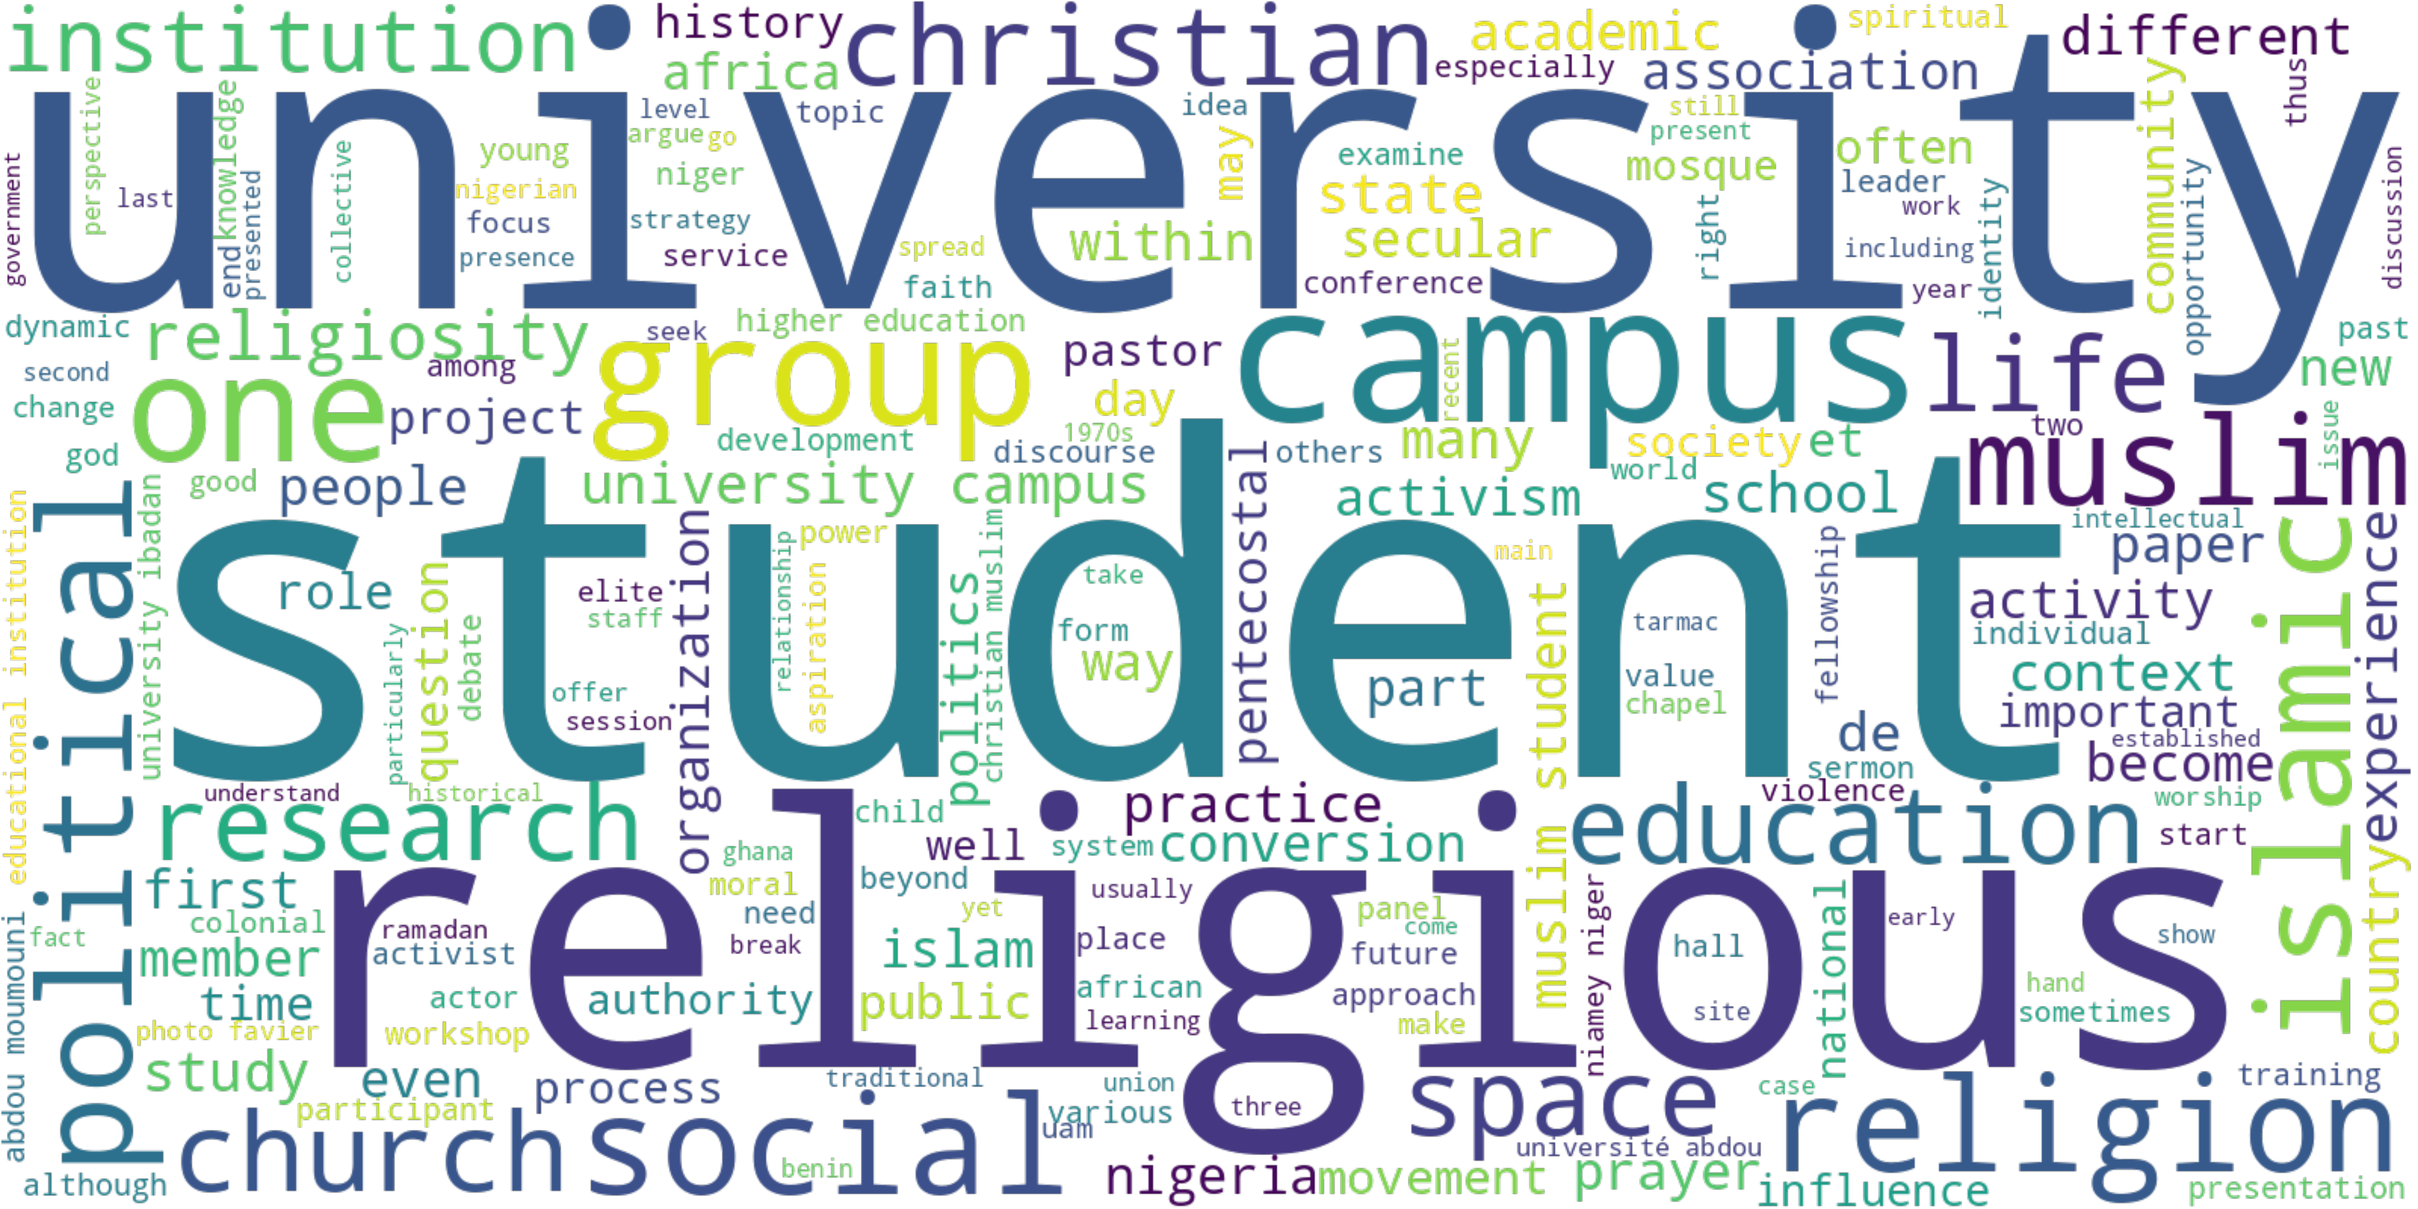
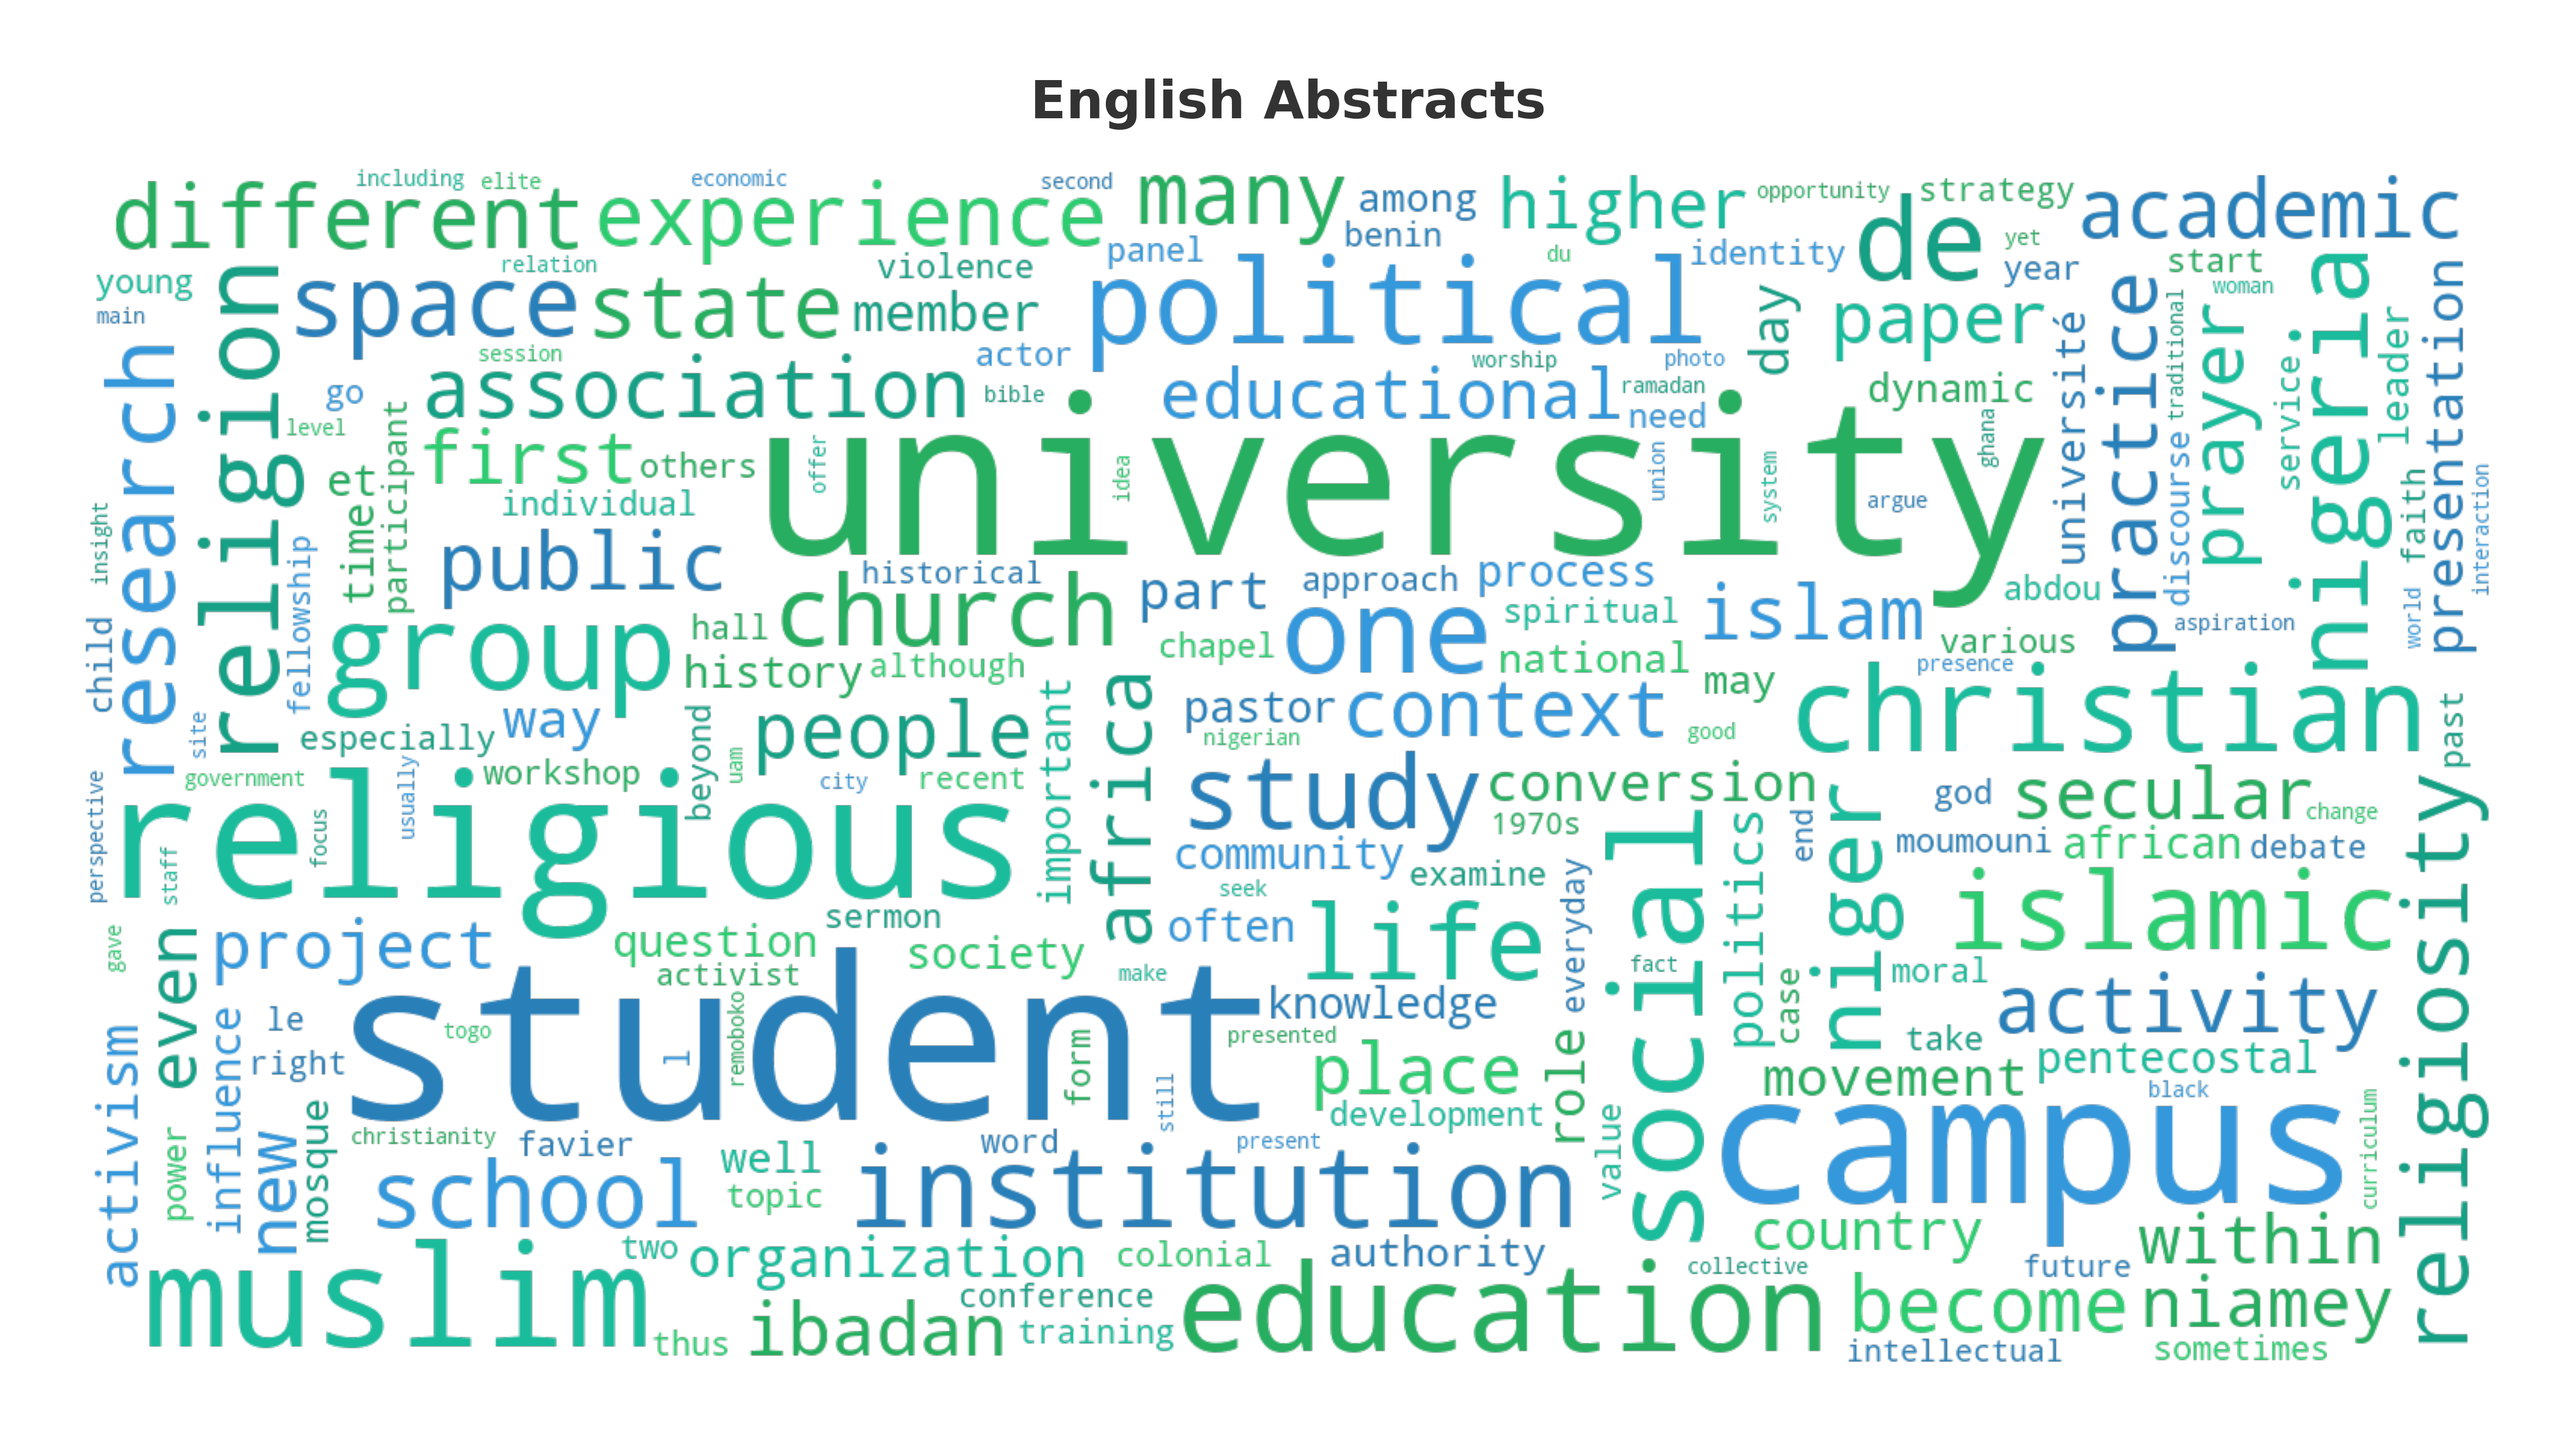
Enhance word cloud generation: add custom color functions, improve styling, and handle empty text cases for English and French

diff --git a/Final report/word_clouds.py b/Final report/word_clouds.py
@@ -1,6 +1,7 @@
 import json
 from wordcloud import WordCloud
 import matplotlib.pyplot as plt
+import matplotlib.colors as mcolors
 import nltk
 from nltk.corpus import stopwords
 from nltk.tokenize import word_tokenize
@@ -9,6 +10,7 @@ import spacy
 from tqdm import tqdm
 import logging
 import os
+import numpy as np
 
 # Set up logging
 logging.basicConfig(level=logging.INFO, format='%(asctime)s - %(levelname)s - %(message)s')
@@ -28,7 +30,7 @@ logging.info("Downloading NLTK data...")
 nltk.download('punkt', quiet=True)
 nltk.download('stopwords', quiet=True)
 nltk.download('wordnet', quiet=True)
-nltk.download('punkt_tab', quiet=True)  # Add this line
+nltk.download('punkt_tab', quiet=True)
 
 # Load spaCy French model
 nlp_fr = spacy.load('fr_core_news_lg')
@@ -48,8 +50,19 @@ except UnicodeDecodeError:
 lemmatizer = WordNetLemmatizer()
 
 # Exception lists
-english_exceptions = {'vincent'}  # Add English exceptions here
-french_exceptions = {'vincent', 'source', 'auteur', 'texte'}  # Add French exceptions here
+english_exceptions = {'vincent'}
+french_exceptions = {'vincent', 'source', 'auteur', 'texte'}
+
+# Define custom color functions for each language
+def english_color_func(word, font_size, position, orientation, random_state=None, **kwargs):
+    """Blue-teal color scheme for English"""
+    colors = ['#1abc9c', '#16a085', '#2ecc71', '#27ae60', '#3498db', '#2980b9']
+    return colors[hash(word) % len(colors)]
+
+def french_color_func(word, font_size, position, orientation, random_state=None, **kwargs):
+    """Orange-red color scheme for French"""
+    colors = ['#e74c3c', '#c0392b', '#e67e22', '#d35400', '#f39c12', '#f1c40f']
+    return colors[hash(word) % len(colors)]
 
 # Function to preprocess text
 def preprocess_text(text, language):
@@ -57,7 +70,7 @@ def preprocess_text(text, language):
         return ""
     # Tokenize the text
     tokens = word_tokenize(text.lower())
-    
+
     if language == 'English':
         stop_words = set(stopwords.words('english')).union(english_exceptions)
         processed_tokens = [lemmatizer.lemmatize(word) for word in tokens if word.isalnum() and word not in stop_words]
@@ -67,31 +80,74 @@ def preprocess_text(text, language):
         all_stop_words = nltk_stop_words.union(spacy_stop_words).union(french_exceptions)
         doc = nlp_fr(text.lower())
         processed_tokens = [token.lemma_ for token in doc if token.text.isalnum() and token.text not in all_stop_words]
-    
+
     return ' '.join(processed_tokens)
 
 # Function to generate and save word cloud
 def generate_wordcloud(text, language):
     logging.info(f"Generating {language} word cloud...")
-    wordcloud = WordCloud(width=1600, height=800, background_color=None, mode="RGBA", max_words=200).generate(text)
-    
-    plt.figure(figsize=(20, 10), dpi=300)
-    plt.imshow(wordcloud, interpolation='bilinear')
-    plt.axis('off')
-    
+
+    # Select color function based on language
+    color_func = english_color_func if language == 'English' else french_color_func
+
+    # Create word cloud with improved settings
+    wordcloud = WordCloud(
+        width=1600,
+        height=800,
+        background_color=None,
+        mode="RGBA",
+        max_words=200,
+        min_font_size=10,
+        max_font_size=150,
+        relative_scaling=0.5,
+        prefer_horizontal=0.7,
+        color_func=color_func,
+        margin=10,
+        contour_width=0,
+        collocations=False  # Avoid repeated word pairs
+    ).generate(text)
+
+    # Create figure with modern styling
+    fig, ax = plt.subplots(figsize=(20, 10), dpi=300, facecolor='none')
+    ax.set_facecolor('none')
+
+    # Display word cloud
+    ax.imshow(wordcloud, interpolation='bilinear')
+    ax.axis('off')
+
+    # Add subtle title
+    lang_label = 'English Abstracts' if language == 'English' else 'French Abstracts'
+    ax.set_title(
+        lang_label,
+        fontsize=24,
+        fontweight='bold',
+        color='#333',
+        pad=20,
+        loc='center'
+    )
+
+    # Save with tight layout
     output_path = os.path.join(wordclouds_dir, f'{language.lower()}_wordcloud.png')
-    plt.savefig(output_path, bbox_inches='tight', pad_inches=0, transparent=True)
+    plt.savefig(output_path, bbox_inches='tight', pad_inches=0.5, transparent=True, facecolor='none')
     plt.close()
     logging.info(f"{language} word cloud saved as {output_path}")
 
 # Preprocess and generate word cloud for English entries
 logging.info("Processing English entries...")
-english_text = ' '.join([preprocess_text(item['Abstract'], 'English') for item in tqdm(data['rows']) if item['Language'] == 'English' and item['Abstract'] is not None])
-generate_wordcloud(english_text, 'English')
+english_entries = [item for item in data['rows'] if item['Language'] == 'English' and item['Abstract'] is not None]
+english_text = ' '.join([preprocess_text(item['Abstract'], 'English') for item in tqdm(english_entries)])
+if english_text.strip():
+    generate_wordcloud(english_text, 'English')
+else:
+    logging.warning("No English text found for word cloud generation")
 
 # Preprocess and generate word cloud for French entries
 logging.info("Processing French entries...")
-french_text = ' '.join([preprocess_text(item['Abstract'], 'French') for item in tqdm(data['rows']) if item['Language'] == 'French' and item['Abstract'] is not None])
-generate_wordcloud(french_text, 'French')
+french_entries = [item for item in data['rows'] if item['Language'] == 'French' and item['Abstract'] is not None]
+french_text = ' '.join([preprocess_text(item['Abstract'], 'French') for item in tqdm(french_entries)])
+if french_text.strip():
+    generate_wordcloud(french_text, 'French')
+else:
+    logging.warning("No French text found for word cloud generation")
 
 logging.info("Word clouds generated successfully!")
